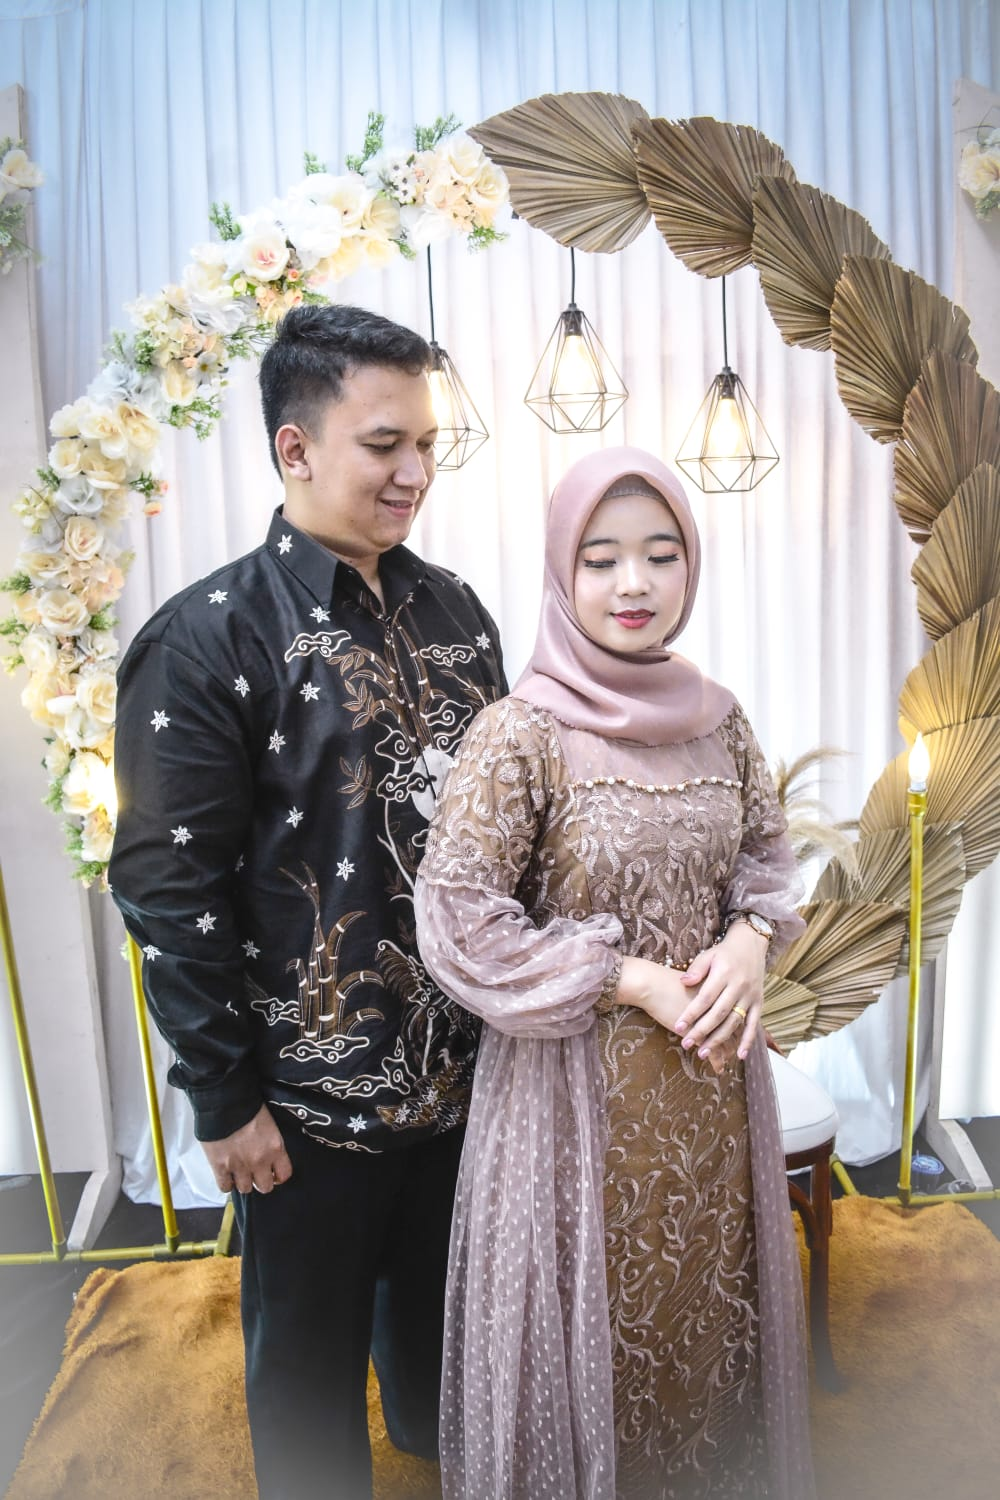
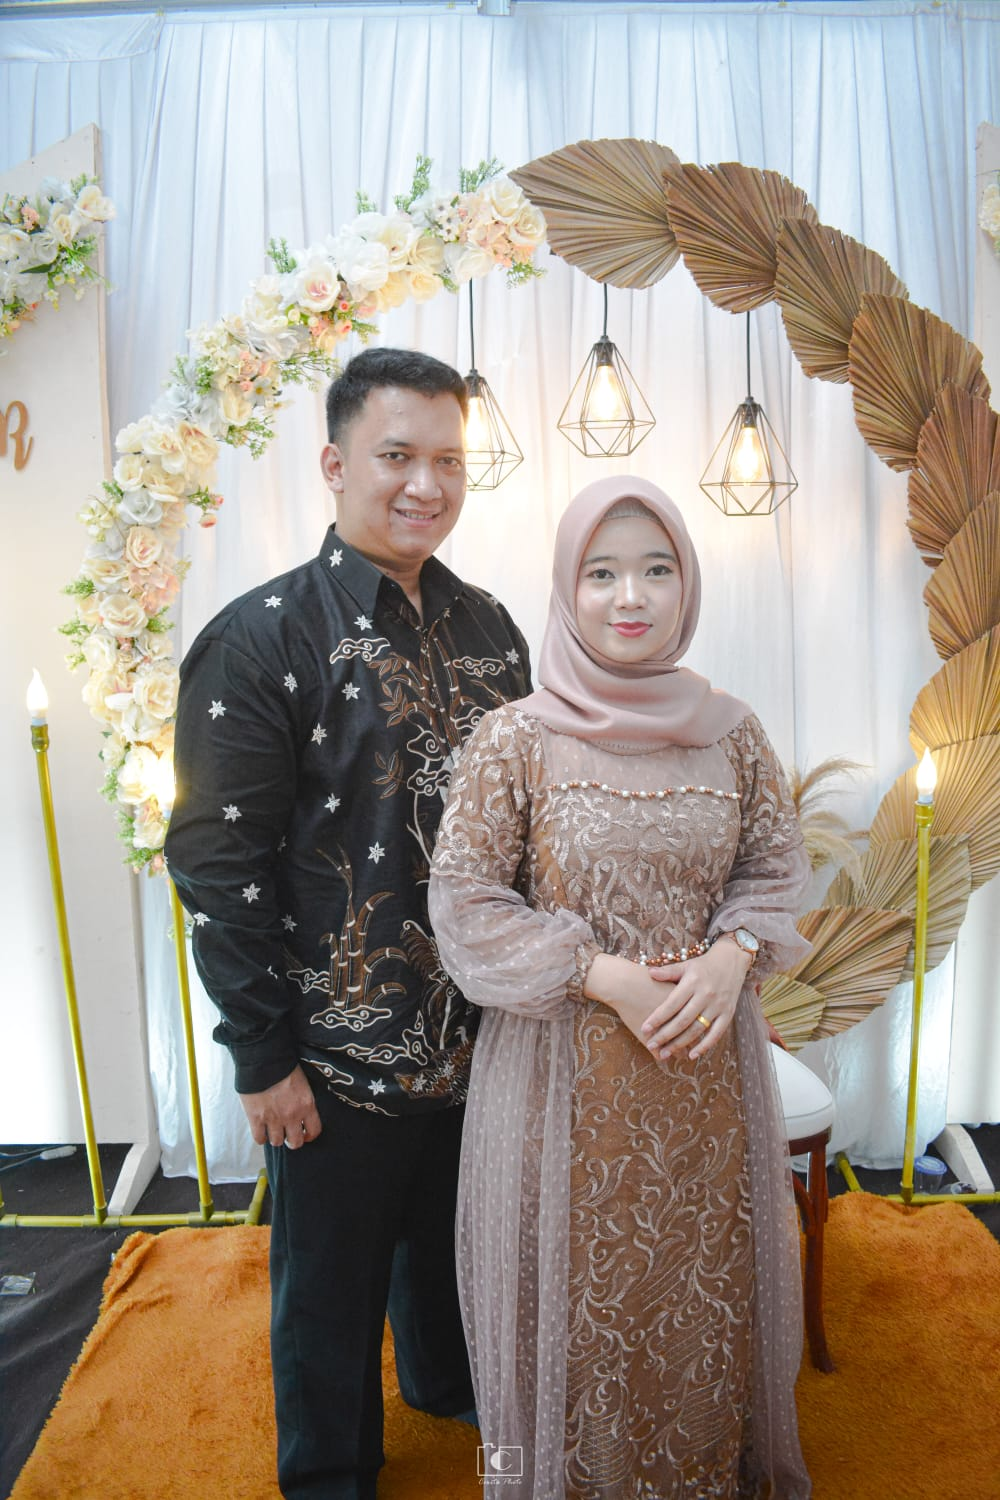
rubah foto

diff --git a/index.html b/index.html
@@ -992,7 +992,7 @@ Tangan</h2>		</div>
 				<div class="elementor-element elementor-element-c012de6 elementor-widget elementor-widget-weddingpress-wellcome" data-id="c012de6" data-element_type="widget" data-widget_type="weddingpress-wellcome.default">
 				<div class="elementor-widget-container">
 			        
-        <div class="modalx" data-sampul='wp-content/uploads/2021/06/closer.jpeg'>
+        <div class="modalx" data-sampul='wp-content/uploads/2021/06/Cover.jpeg'>
         
                         <div class="overlayy"></div>
                             <div class="content-modalx">
